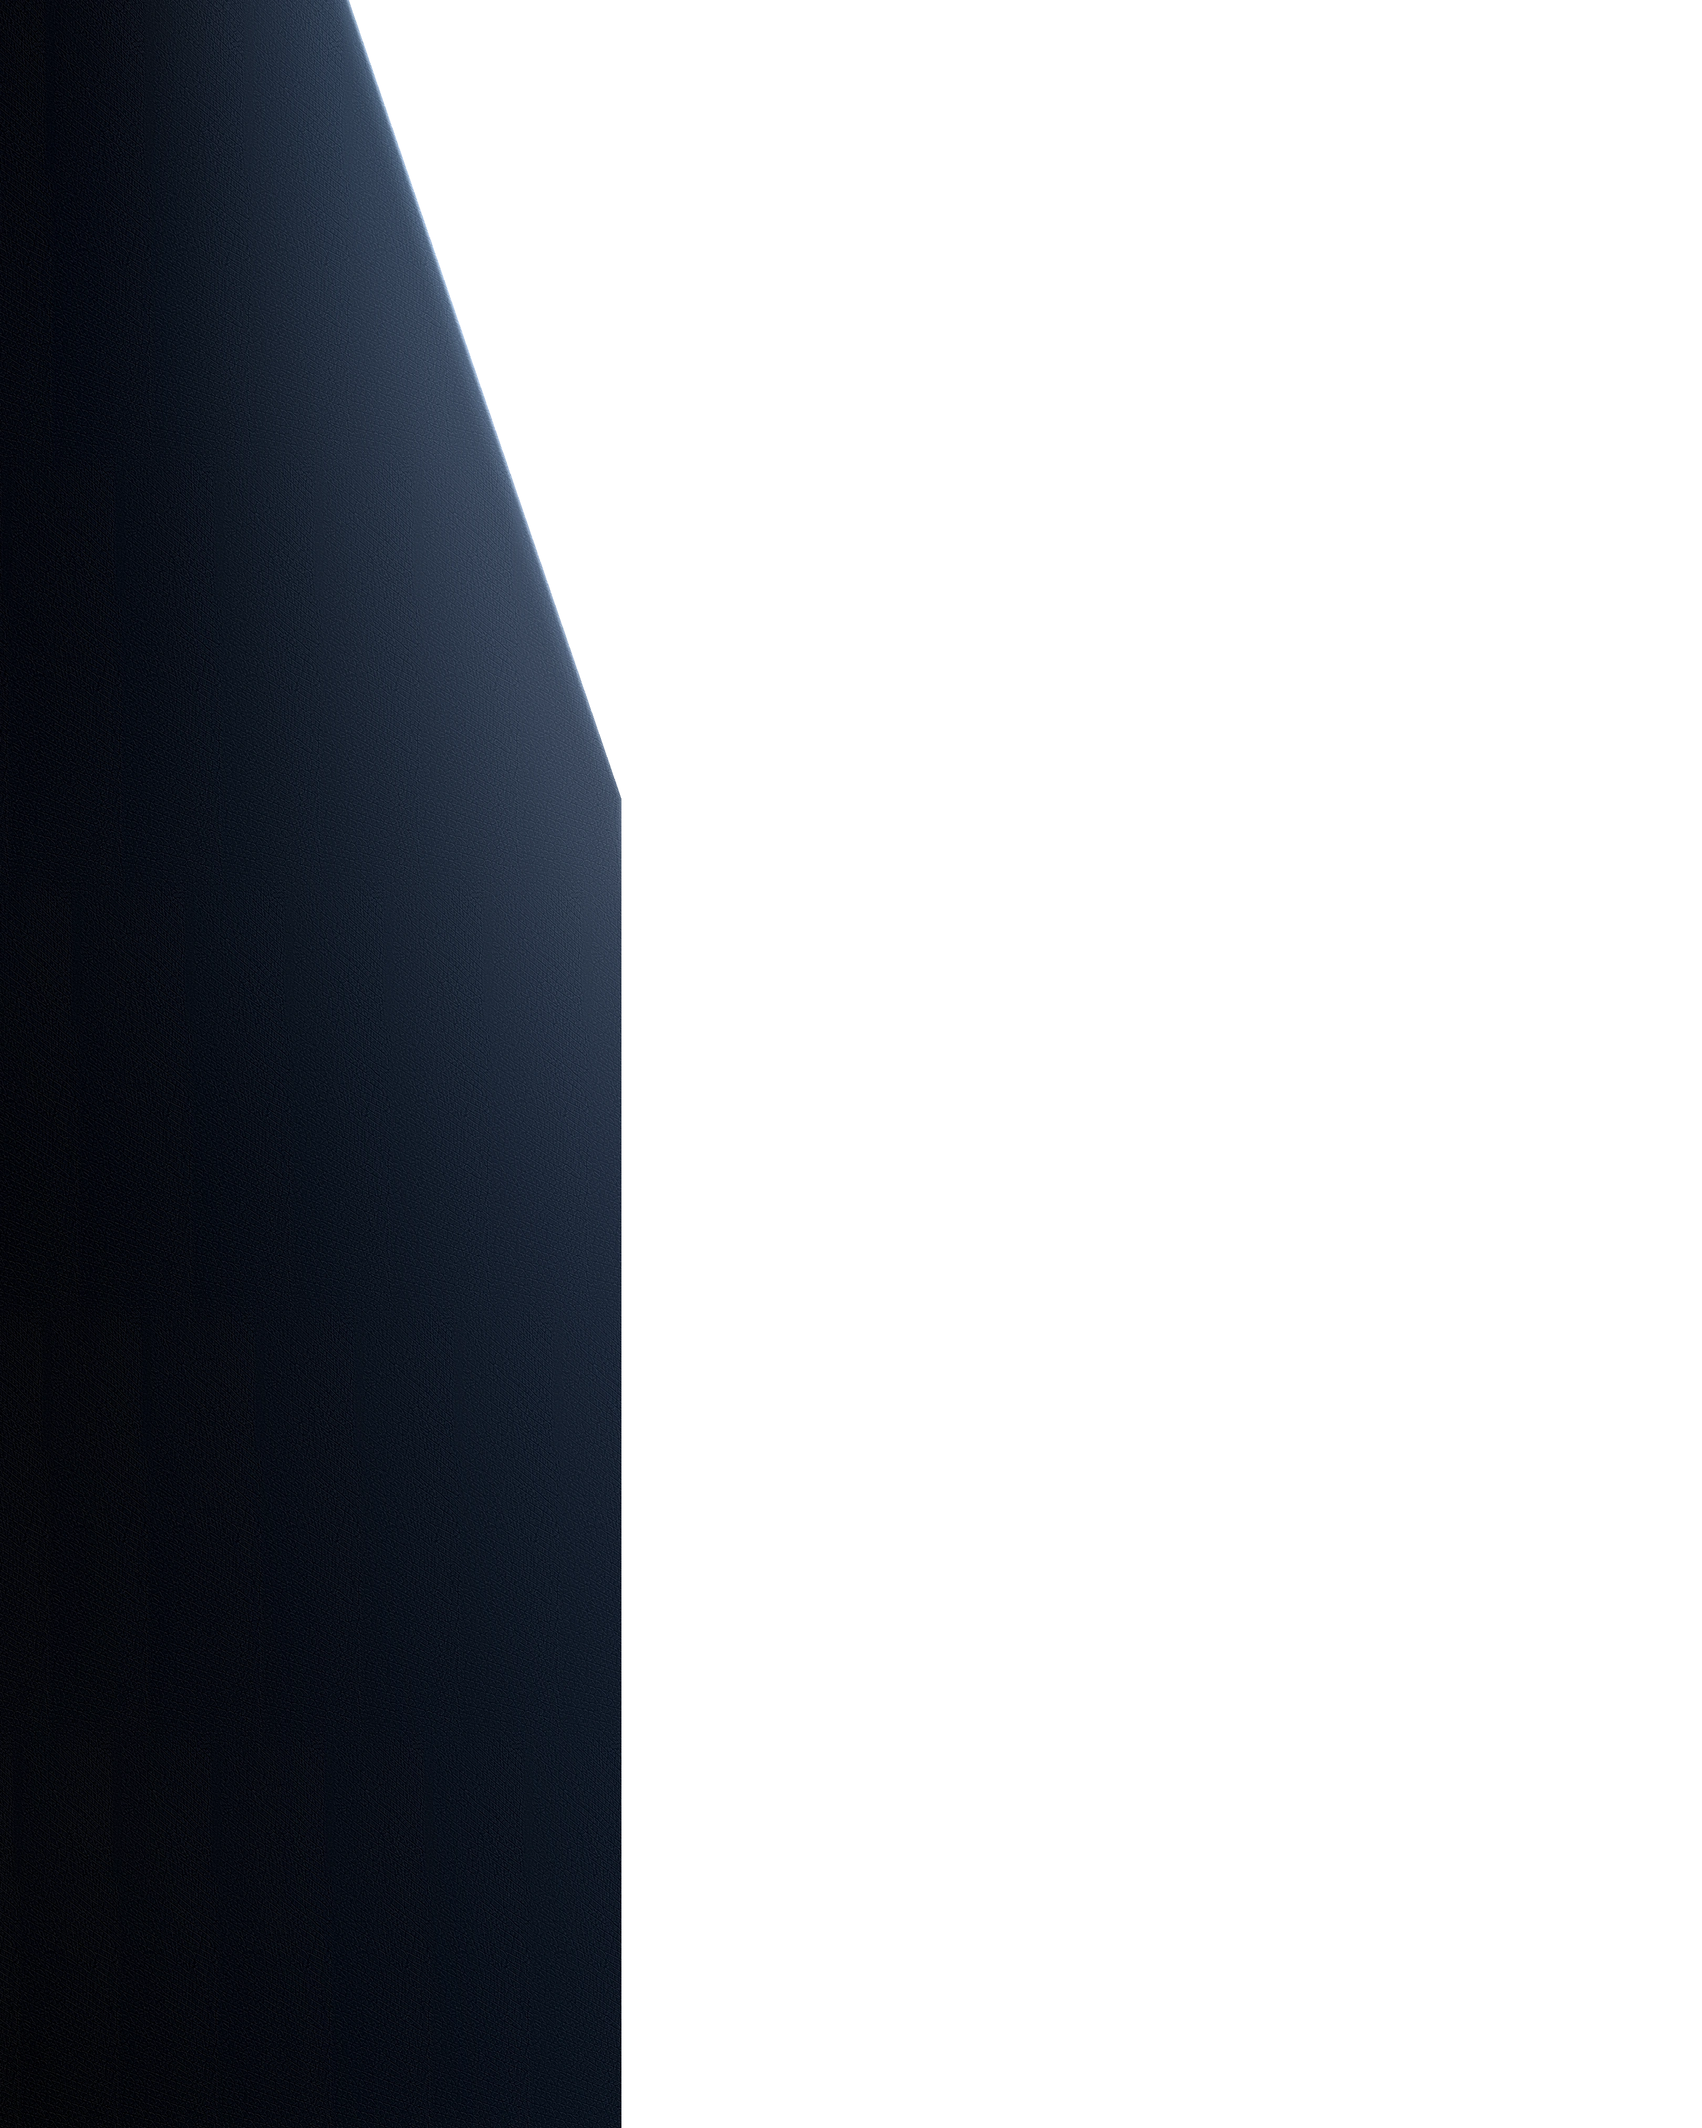
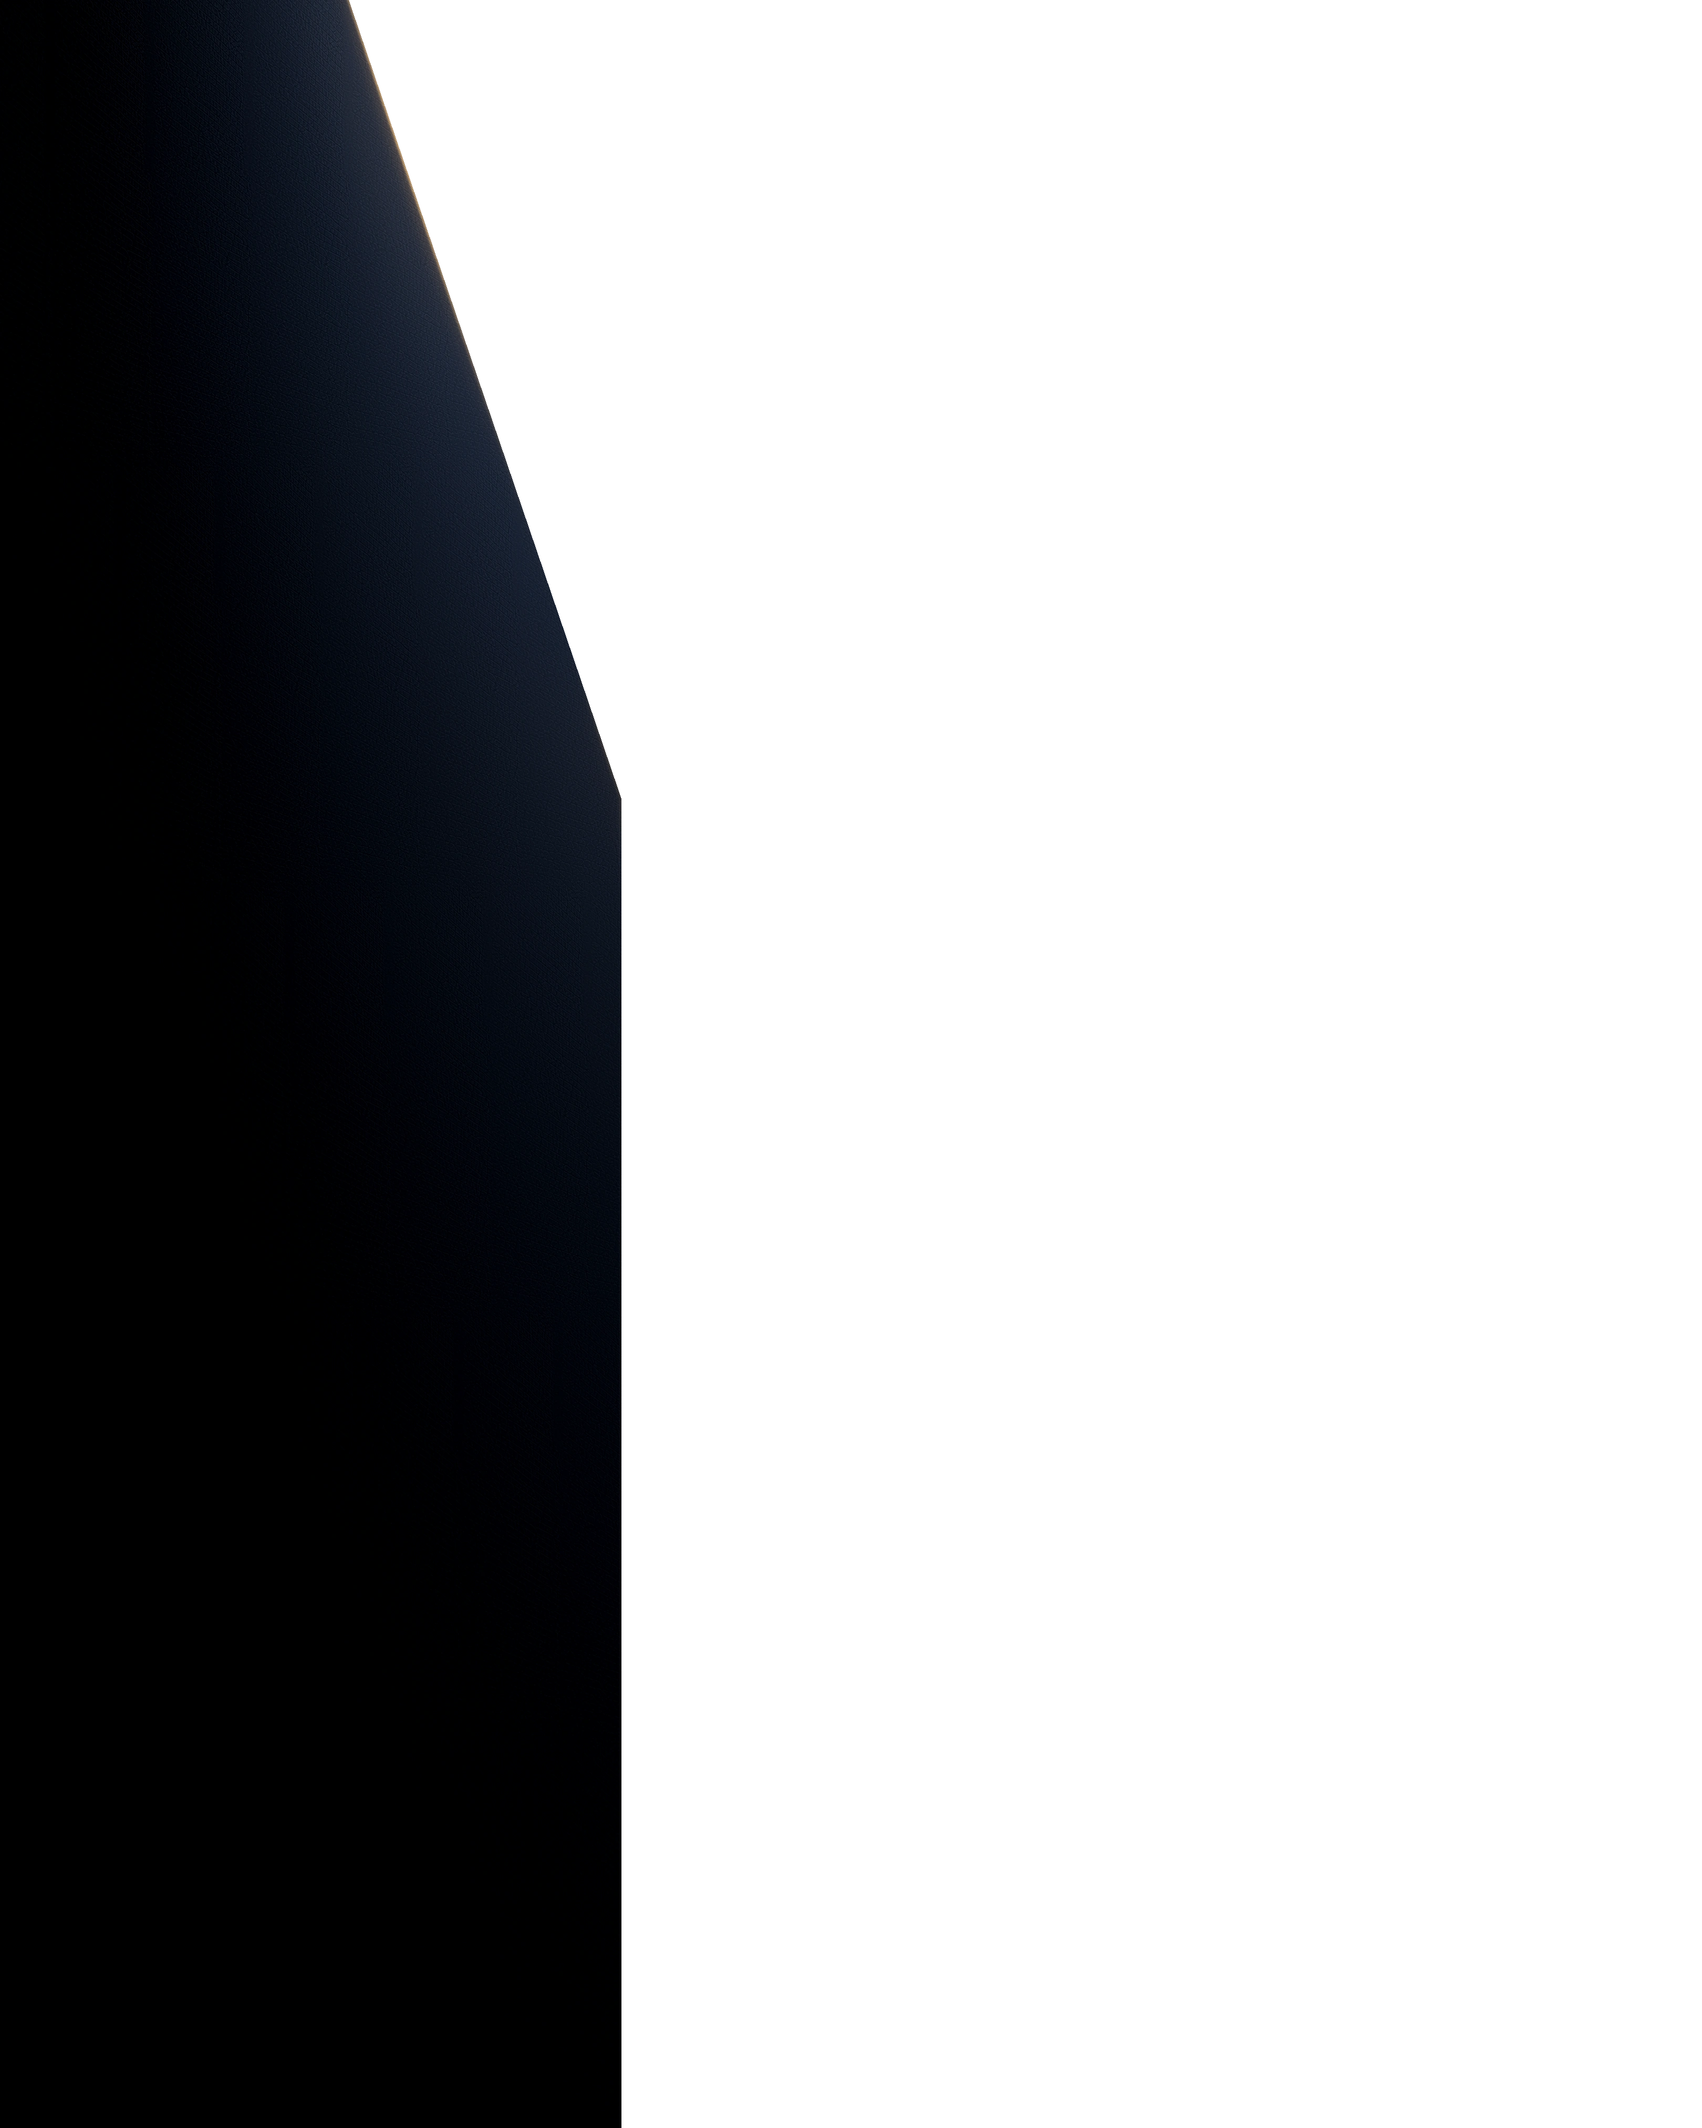
feat: refine cinematic wall reveal lighting

Changed region(s): [[0.0, 0.0, 0.3741, 1.0]]

diff --git a/js/hero-v2-scroll-motion.js b/js/hero-v2-scroll-motion.js
@@ -1353,14 +1353,16 @@
             const loaderIcons = ASSET_ICON_KEYS.map(k => el.loaderIcons[k]);
             const progress = { value: 0 };
             const assetScatterOrigins = {};
+            const sceneRevealPause = 0.12;
             const assetScatterStartOffset = 0.10;
             const assetScatterStagger = 0.045;
-            const assetScatterDuration = 1.06;
+            const assetScatterDuration = 1.12;
             const assetScatterEndOffset = assetScatterStartOffset
                 + (ASSET_ICON_KEYS.length - 1) * assetScatterStagger
                 + assetScatterDuration;
-            const wallIntroStartOffset = 0.42;
-            const wallIntroDuration = assetScatterEndOffset - wallIntroStartOffset;
+            const sceneRevealAt = exitAt + sceneRevealPause;
+            const wallIntroStartOffset = 0.46;
+            const wallIntroDuration = assetScatterEndOffset - wallIntroStartOffset + 0.08;
 
             gsap.set(el.siteHeader, { opacity: 0, y: -16 });
             gsap.set('.asset .inner', { opacity: 0 });
@@ -1471,19 +1473,19 @@
             });
             tl.to(loaderIcons, { opacity: 0, duration: 0.16, ease: 'none' }, exitAt + 0.02);
 
-            tl.to(el.loaderSurface, { opacity: 0, duration: 0.72, ease: 'power2.out' }, exitAt)
-                .to(el.wallIntroLeft, { scaleX: 1, duration: wallIntroDuration, ease: 'power3.inOut' }, exitAt + wallIntroStartOffset)
-                .to(el.wallIntroRight, { scaleX: 1, duration: wallIntroDuration, ease: 'power3.inOut' }, exitAt + wallIntroStartOffset)
+            tl.to(el.loaderSurface, { opacity: 0, duration: 0.78, ease: 'power2.out' }, sceneRevealAt)
+                .to(el.wallIntroLeft, { scaleX: 1, duration: wallIntroDuration, ease: 'power3.inOut' }, sceneRevealAt + wallIntroStartOffset)
+                .to(el.wallIntroRight, { scaleX: 1, duration: wallIntroDuration, ease: 'power3.inOut' }, sceneRevealAt + wallIntroStartOffset + 0.025)
                 .fromTo(el.titleInner,
                     { opacity: 0, y: -20, scale: 0.96 },
                     { opacity: 1, y: 0, scale: 1, duration: 0.72, ease: 'power3.out' },
-                    exitAt + 0.34
+                    sceneRevealAt + 0.38
                 )
-                .to(el.siteHeader, { opacity: 1, y: 0, duration: 0.56 }, exitAt + 0.48)
-                .to('#ui', { opacity: 1, y: 0, duration: 0.62 }, exitAt + 0.64);
+                .to(el.siteHeader, { opacity: 1, y: 0, duration: 0.56 }, sceneRevealAt + 0.52)
+                .to('#ui', { opacity: 1, y: 0, duration: 0.62 }, sceneRevealAt + 0.70);
 
             ASSET_ICON_KEYS.forEach((k, i) => {
-                const at = exitAt + assetScatterStartOffset + i * assetScatterStagger;
+                const at = sceneRevealAt + assetScatterStartOffset + i * assetScatterStagger;
 
                 tl.to(el[k + 'Inner'], {
                     opacity: 1,
@@ -1496,9 +1498,9 @@
                 }, at);
             });
 
-            tl.set('.asset .inner', { opacity: 1 }, exitAt + 1.54)
-                .set(loaderIcons, { opacity: 0 }, exitAt + 1.54)
-                .to(el.loader, { opacity: 0, duration: 0.18, ease: 'none' }, exitAt + 1.54);
+            tl.set('.asset .inner', { opacity: 1 }, sceneRevealAt + 1.62)
+                .set(loaderIcons, { opacity: 0 }, sceneRevealAt + 1.62)
+                .to(el.loader, { opacity: 0, duration: 0.18, ease: 'none' }, sceneRevealAt + 1.62);
         }
 
         /* ---------- idle float (on .floaty) ---------- */

diff --git a/index.html b/index.html
@@ -149,13 +149,13 @@
                 <img id="ship" src="images/ship.webp" alt="Playbook ship" fetchpriority="high" decoding="sync">
                 <div id="walls" aria-hidden="true">
                     <div id="wall-left-intro" class="wall-intro-panel">
-                        <img id="wall-left" class="wall-panel" src="images/wall-left-1280.webp?v=dark-wall-22"
-                            srcset="images/wall-left-1280.webp?v=dark-wall-22 1280w, images/wall-left-1920.webp?v=dark-wall-22 1920w, images/wall-left-2560.webp?v=dark-wall-22 2560w, images/wall-left.webp?v=dark-wall-22 3240w"
+                        <img id="wall-left" class="wall-panel" src="images/wall-left-1280.webp?v=dark-wall-26"
+                            srcset="images/wall-left-1280.webp?v=dark-wall-26 1280w, images/wall-left-1920.webp?v=dark-wall-26 1920w, images/wall-left-2560.webp?v=dark-wall-26 2560w, images/wall-left.webp?v=dark-wall-26 3240w"
                             sizes="100vw" alt="">
                     </div>
                     <div id="wall-right-intro" class="wall-intro-panel">
-                        <img id="wall-right" class="wall-panel" src="images/wall-right-1280.webp?v=dark-wall-22"
-                            srcset="images/wall-right-1280.webp?v=dark-wall-22 1280w, images/wall-right-1920.webp?v=dark-wall-22 1920w, images/wall-right-2560.webp?v=dark-wall-22 2560w, images/wall-right.webp?v=dark-wall-22 3240w"
+                        <img id="wall-right" class="wall-panel" src="images/wall-right-1280.webp?v=dark-wall-26"
+                            srcset="images/wall-right-1280.webp?v=dark-wall-26 1280w, images/wall-right-1920.webp?v=dark-wall-26 1920w, images/wall-right-2560.webp?v=dark-wall-26 2560w, images/wall-right.webp?v=dark-wall-26 3240w"
                             sizes="100vw" alt="">
                     </div>
                 </div>

diff --git a/tools/build-dark-walls.py b/tools/build-dark-walls.py
@@ -219,7 +219,7 @@ def sky_reflection(side: str, wall_depth: np.ndarray) -> np.ndarray:
 
 
 def upper_edge_rim_light(side: str, edge: np.ndarray) -> np.ndarray:
-    """Create a restrained sky-lit rim along the upper inner wall edge."""
+    """Create a restrained warm sky-lit rim along the upper inner wall edge."""
     columns = np.arange(MASTER_WIDTH, dtype=np.float32)[None, :]
     rows = np.linspace(0.0, 1.0, MASTER_HEIGHT, dtype=np.float32)[:, None]
     if side == "left":
@@ -228,28 +228,82 @@ def upper_edge_rim_light(side: str, edge: np.ndarray) -> np.ndarray:
         distance = columns - edge[:, None].astype(np.float32)
 
     inside = distance >= 0.0
-    core = np.exp(-((np.maximum(distance, 0.0) / 4.5) ** 2))
-    bloom = np.exp(-((np.maximum(distance, 0.0) / 24.0) ** 2))
-
-    # Keep the light on the sloped opening. The long fade avoids a visible stop
-    # where the wall edge becomes vertical.
-    vertical_fade = np.clip((0.44 - rows) / 0.15, 0.0, 1.0)
-    vertical_fade = vertical_fade * vertical_fade * (3.0 - 2.0 * vertical_fade)
+    core = np.exp(-((np.maximum(distance, 0.0) / 3.8) ** 2))
+    bloom = np.exp(-((np.maximum(distance, 0.0) / 19.0) ** 2))
+    surface_spill = np.exp(-((np.maximum(distance, 0.0) / 115.0) ** 1.55))
 
     if side == "left":
-        core_color = np.array((86.0, 91.0, 94.0), dtype=np.float32)
-        bloom_color = np.array((24.0, 29.0, 34.0), dtype=np.float32)
-        # The cloud opening sits closer to the left wall in the key visual.
-        sky_strength = 0.82 + 0.18 * np.exp(-((rows - 0.10) / 0.13) ** 2)
+        core_color = np.array((116.0, 86.0, 40.0), dtype=np.float32)
+        bloom_color = np.array((31.0, 19.0, 7.0), dtype=np.float32)
+        spill_color = np.array((17.0, 11.0, 5.0), dtype=np.float32)
+        # The cloud opening sits closer to the left wall in the key visual. Keep
+        # the highlight in separated pools instead of tracing the full edge.
+        sky_strength = np.exp(-((rows - 0.07) / 0.11) ** 2)
+        knee_glint = 0.24 * np.exp(-((rows - 0.36) / 0.035) ** 2)
     else:
-        core_color = np.array((54.0, 70.0, 87.0), dtype=np.float32)
-        bloom_color = np.array((16.0, 23.0, 31.0), dtype=np.float32)
-        sky_strength = 0.72 + 0.12 * np.exp(-((rows - 0.08) / 0.16) ** 2)
+        core_color = np.array((94.0, 73.0, 39.0), dtype=np.float32)
+        bloom_color = np.array((25.0, 17.0, 7.0), dtype=np.float32)
+        spill_color = np.array((13.0, 9.0, 4.0), dtype=np.float32)
+        sky_strength = 0.78 * np.exp(-((rows - 0.05) / 0.095) ** 2)
+        knee_glint = 0.18 * np.exp(-((rows - 0.35) / 0.03) ** 2)
 
-    strength = vertical_fade * sky_strength * inside
+    strength = np.clip(sky_strength + knee_glint, 0.0, 1.0) * inside
     return strength[:, :, None] * (
-        core[:, :, None] * core_color + bloom[:, :, None] * bloom_color
+        core[:, :, None] * core_color
+        + bloom[:, :, None] * bloom_color
+        + surface_spill[:, :, None] * spill_color
     )
+
+
+def cinematic_grade(
+    pixels: np.ndarray,
+    side: str,
+    wall_depth: np.ndarray,
+) -> np.ndarray:
+    """Push the wall into deep navy shadow while retaining the sky-facing top."""
+    y = np.linspace(0.0, 1.0, MASTER_HEIGHT, dtype=np.float32)[:, None]
+    top_light = np.exp(-((y / 0.48) ** 1.55))
+
+    inner = np.clip((wall_depth - 0.04) / 0.96, 0.0, 1.0)
+    inner = inner * inner * (3.0 - 2.0 * inner)
+    sky_face = top_light * (0.22 + 0.78 * inner**1.35)
+
+    # Keep the top readable, then fall to an almost-black lower wall. The
+    # right panel receives slightly less ambient light in the supplied mockup.
+    exposure = 0.30 + 0.24 * top_light + 0.18 * sky_face
+    if side == "right":
+        exposure *= 0.94
+
+    graded = pixels * exposure[:, :, None]
+    graded *= np.array((0.78, 0.84, 0.94), dtype=np.float32)
+
+    lower_shadow = (3.0 + 8.0 * y**1.35)[:, :, None]
+    outer_shadow = ((1.0 - inner) ** 2.1 * (5.0 + 4.0 * y))[:, :, None]
+    return np.clip(graded - lower_shadow - outer_shadow, 0.0, 255.0)
+
+
+def regrade_existing_wall(side: str, source: Image.Image) -> Image.Image:
+    """Apply the final cinematic lighting pass without rebuilding the texture."""
+    source = source.convert("RGBA").resize(
+        (MASTER_WIDTH, MASTER_HEIGHT),
+        Image.Resampling.LANCZOS,
+    )
+    source_pixels = np.asarray(source, dtype=np.uint8)
+
+    x = np.linspace(0.0, 1.0, MASTER_WIDTH, dtype=np.float32)[None, :]
+    edge = perspective_edge(MASTER_WIDTH, MASTER_HEIGHT, side)
+    edge_fraction = edge[:, None] / MASTER_WIDTH
+    if side == "left":
+        wall_depth = np.clip(x / edge_fraction, 0.0, 1.0)
+    else:
+        wall_depth = np.clip((1.0 - x) / (1.0 - edge_fraction), 0.0, 1.0)
+
+    pixels = cinematic_grade(source_pixels[:, :, :3].astype(np.float32), side, wall_depth)
+    pixels = np.clip(pixels + upper_edge_rim_light(side, edge), 0, 255).astype(np.uint8)
+
+    result = Image.fromarray(pixels, "RGB")
+    result.putalpha(Image.fromarray(source_pixels[:, :, 3], "L"))
+    return result
 
 
 def build_wall(
@@ -298,14 +352,20 @@ def save_webp(image: Image.Image, path: Path, quality: int) -> None:
 
 def build_side(
     side: str,
-    texture_path: Path,
+    texture_path: Path | None,
     lighting_path: Path,
     output_dir: Path,
     desktop_only: bool,
+    regrade_existing: bool,
 ) -> None:
-    texture_source = Image.open(texture_path)
     lighting_source = Image.open(lighting_path)
-    master = build_wall(side, texture_source, lighting_source)
+    if regrade_existing:
+        master = regrade_existing_wall(side, lighting_source)
+    else:
+        if texture_path is None:
+            raise ValueError("A texture source is required when rebuilding walls")
+        texture_source = Image.open(texture_path)
+        master = build_wall(side, texture_source, lighting_source)
     save_webp(master, output_dir / f"wall-{side}.webp", quality=96)
 
     if desktop_only:
@@ -319,28 +379,33 @@ def build_side(
 
 def main() -> None:
     parser = argparse.ArgumentParser()
-    parser.add_argument("--left-texture", type=Path, required=True)
-    parser.add_argument("--right-texture", type=Path, required=True)
+    parser.add_argument("--left-texture", type=Path)
+    parser.add_argument("--right-texture", type=Path)
     parser.add_argument("--left-lighting", type=Path, required=True)
     parser.add_argument("--right-lighting", type=Path, required=True)
     parser.add_argument("--images-dir", type=Path, default=Path("images"))
     parser.add_argument("--desktop-only", action="store_true")
+    parser.add_argument("--regrade-existing", action="store_true")
     args = parser.parse_args()
 
     images_dir = args.images_dir.resolve()
+    left_texture = args.left_texture.resolve() if args.left_texture else None
+    right_texture = args.right_texture.resolve() if args.right_texture else None
     build_side(
         "left",
-        args.left_texture.resolve(),
+        left_texture,
         args.left_lighting.resolve(),
         images_dir,
         args.desktop_only,
+        args.regrade_existing,
     )
     build_side(
         "right",
-        args.right_texture.resolve(),
+        right_texture,
         args.right_lighting.resolve(),
         images_dir,
         args.desktop_only,
+        args.regrade_existing,
     )
 
 
